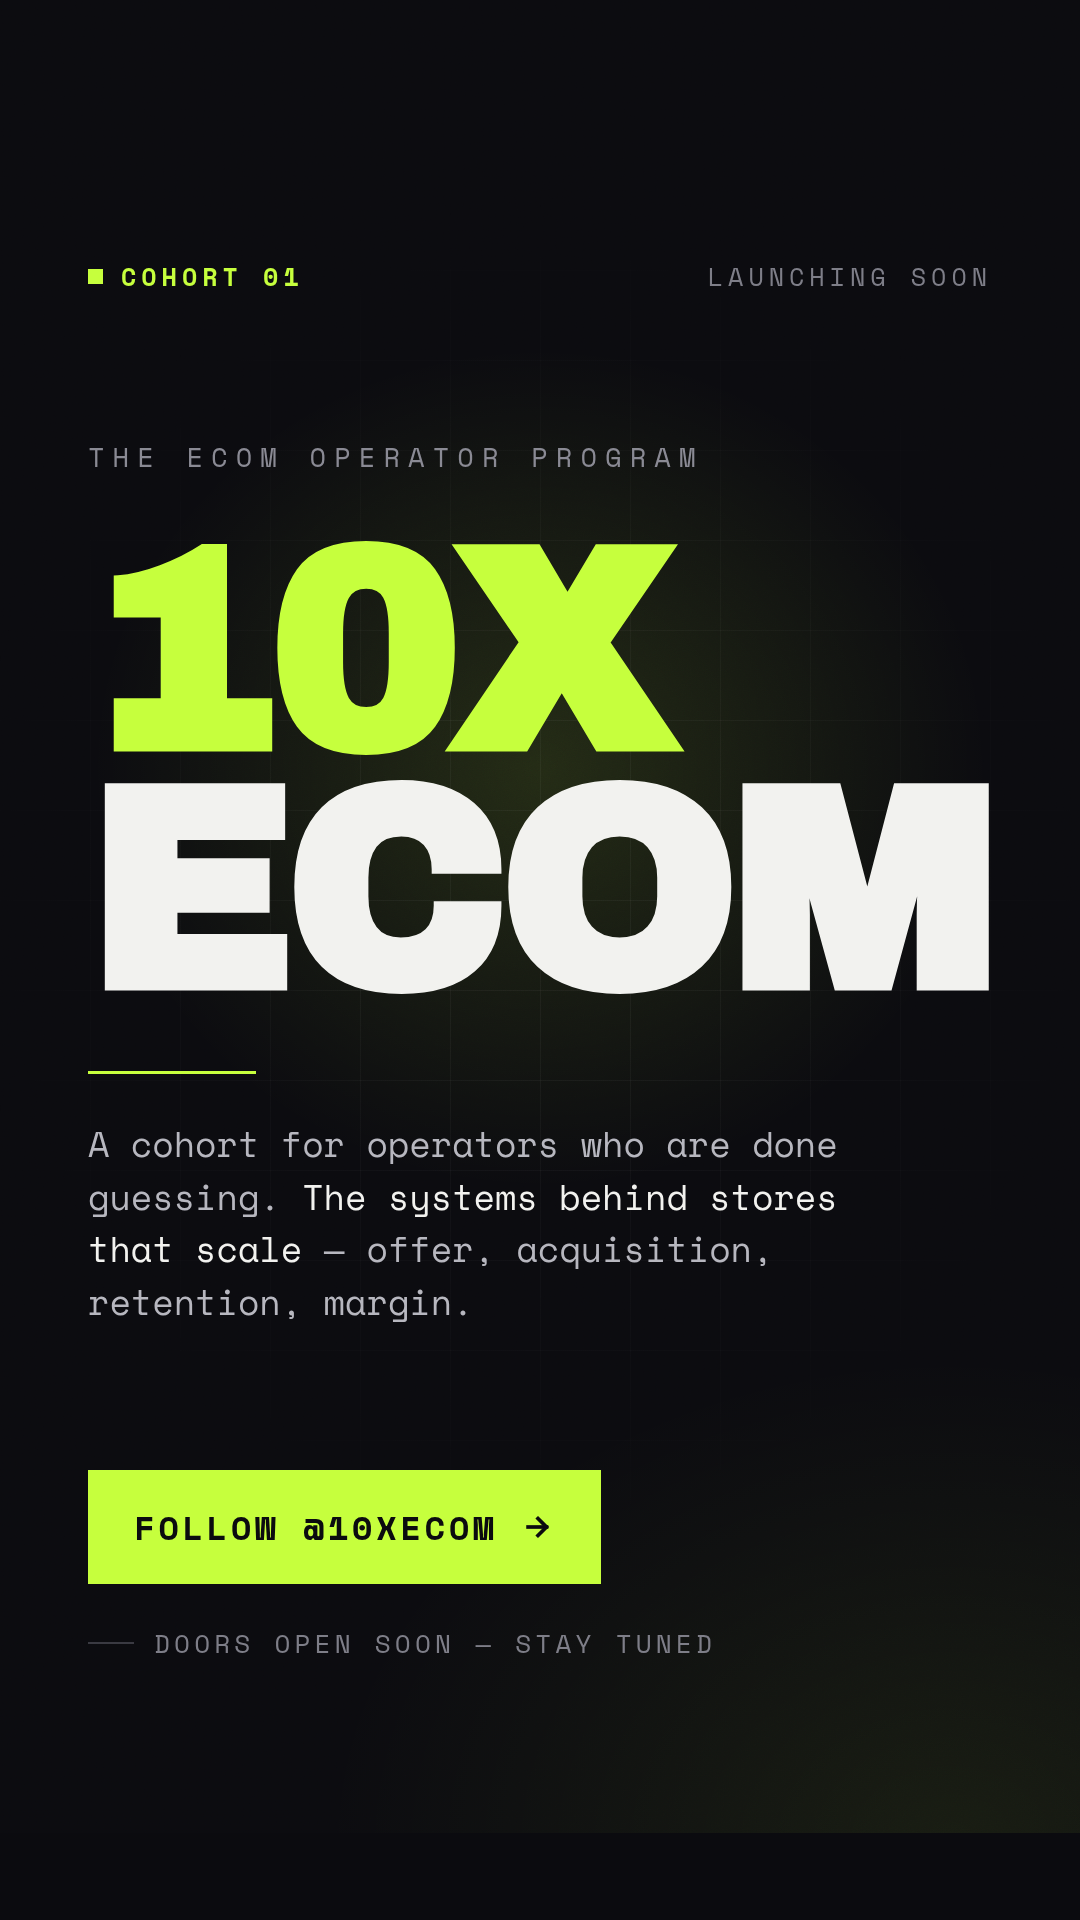
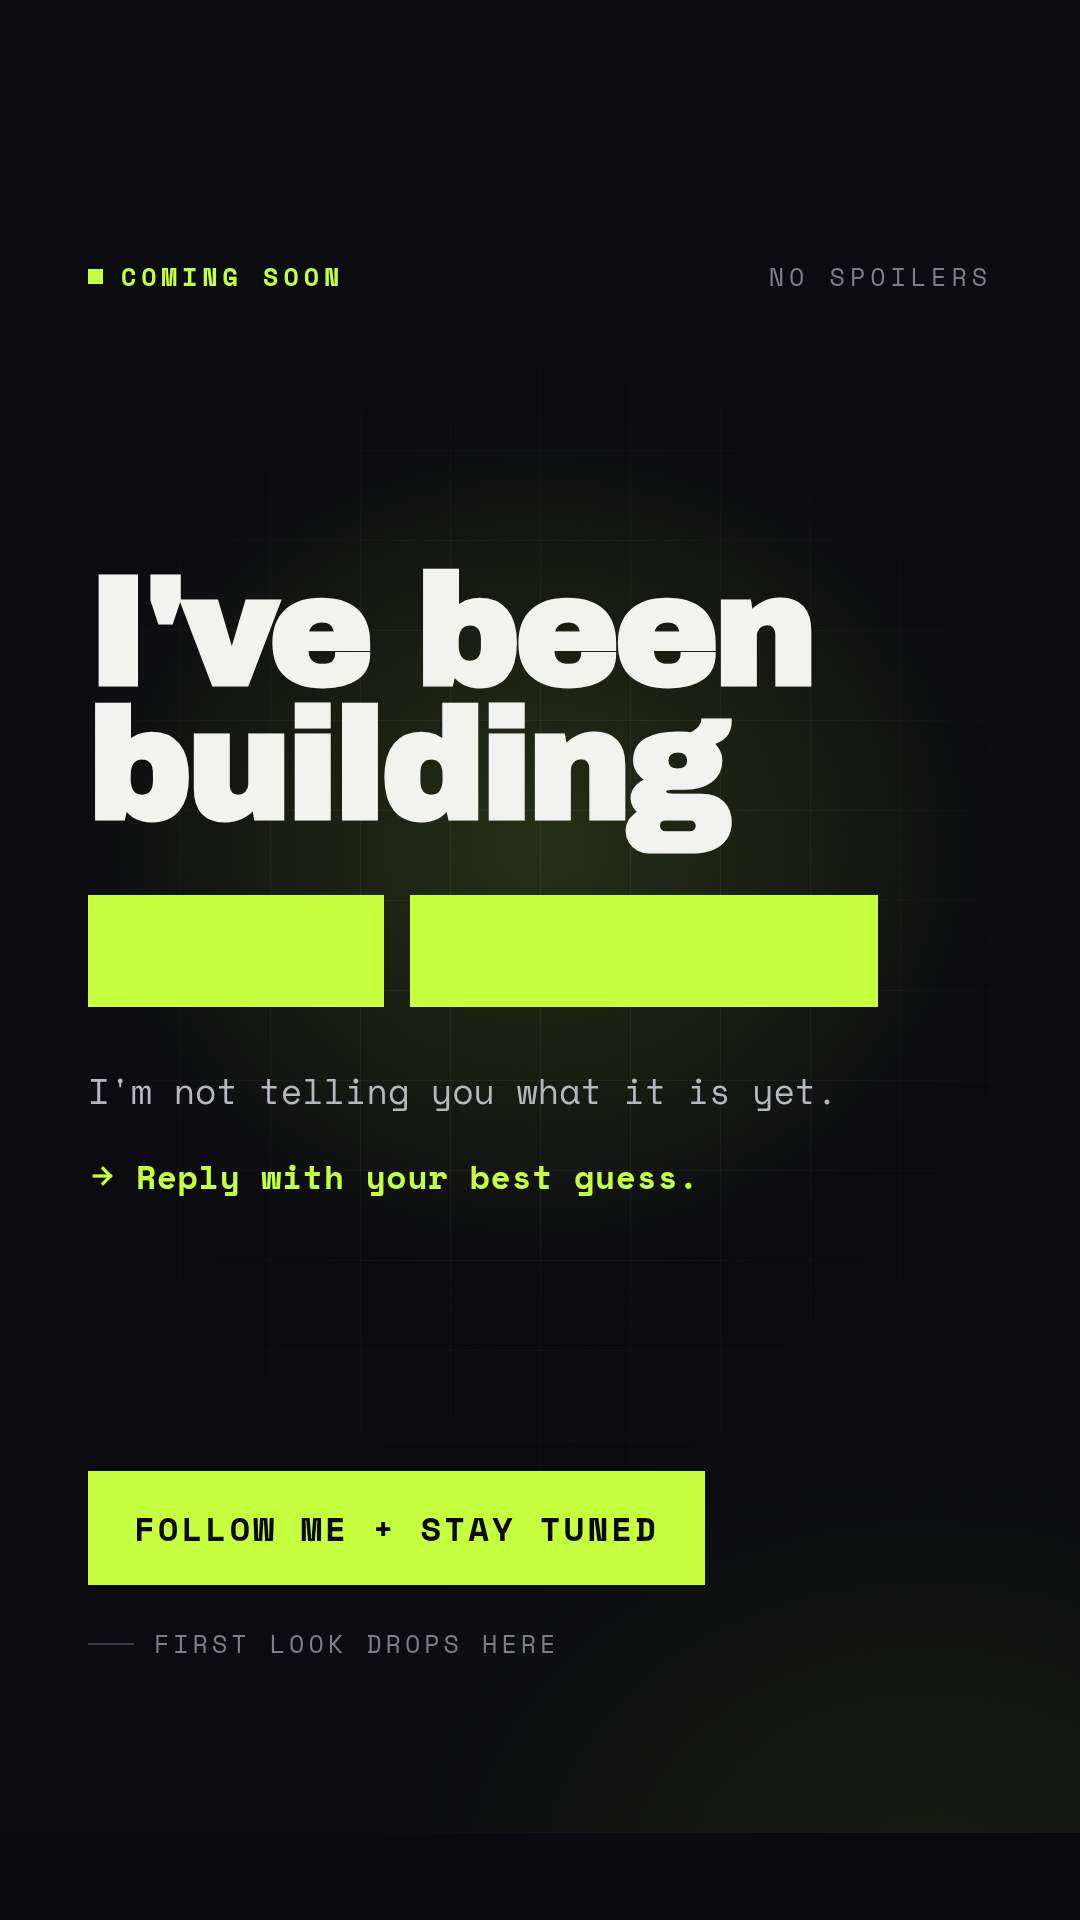
design: rework story as a single no-reveal teaser
The brief changed: one image, posted on a personal profile, teasing a launch
without naming the product, built to pull replies.

- Replace the three branded directions with one teaser artboard. The product
  name, the programme description and the pillars are all gone; the hook is
  now a redaction bar reading "I've been building [redacted]".
- CTA is "Follow me + stay tuned" rather than a brand handle, with a
  "Reply with your best guess" prompt to drive story replies.
- Leave a clear band above the CTA for a poll or question sticker.
- Give the background layers an explicit z-index (grid lines were painting
  over the headline) and clear the "g" descender above the redaction bar.
- Let render.mjs discover artboards instead of hardcoding their names.

Claude-Session: https://claude.ai/code/session_01JScjDvyAFXuwqeNj6asjp6

diff --git a/design/10xecom-ig-story/src/Main.dc.html b/design/10xecom-ig-story/src/Main.dc.html
@@ -17,17 +17,17 @@
       font-family: 'Space Mono', ui-monospace, 'Courier New', monospace;
       box-sizing: border-box;
     }
-    .glow, .grid, .noise { position: absolute; inset: 0; pointer-events: none; }
+    .glow, .grid, .noise { position: absolute; inset: 0; pointer-events: none; z-index: 0; }
     .glow {
       background:
-        radial-gradient(660px 620px at 50% 40%, rgba(198,255,61,0.13), rgba(198,255,61,0) 68%),
-        radial-gradient(900px 700px at 88% 96%, rgba(198,255,61,0.07), rgba(198,255,61,0) 70%);
+        radial-gradient(700px 640px at 50% 44%, rgba(198,255,61,0.14), rgba(198,255,61,0) 68%),
+        radial-gradient(900px 700px at 86% 98%, rgba(198,255,61,0.06), rgba(198,255,61,0) 70%);
     }
     .grid {
       background-image:
-        repeating-linear-gradient(to right, rgba(242,242,239,0.045) 0 1px, transparent 1px 90px),
-        repeating-linear-gradient(to bottom, rgba(242,242,239,0.045) 0 1px, transparent 1px 90px);
-      mask-image: radial-gradient(760px 900px at 50% 46%, #000 20%, transparent 78%);
+        repeating-linear-gradient(to right, rgba(242,242,239,0.05) 0 1px, transparent 1px 90px),
+        repeating-linear-gradient(to bottom, rgba(242,242,239,0.05) 0 1px, transparent 1px 90px);
+      mask-image: radial-gradient(780px 900px at 50% 48%, #000 20%, transparent 78%);
     }
     .noise {
       opacity: 0.16; mix-blend-mode: overlay;
@@ -35,29 +35,34 @@
     }
     .inner {
       position: relative; height: 100%; box-sizing: border-box;
-      padding: 258px 88px 258px;
+      padding: 258px 88px 258px; z-index: 1;
       display: flex; flex-direction: column; justify-content: space-between;
     }
+
     .topbar { display: flex; align-items: center; justify-content: space-between; }
     .tag { display: flex; align-items: center; gap: 18px;
       font-size: 25px; font-weight: 700; letter-spacing: 0.20em; text-transform: uppercase; color: #C6FF3D; }
     .dot { width: 15px; height: 15px; background: #C6FF3D; }
     .topright { font-size: 25px; letter-spacing: 0.20em; text-transform: uppercase; color: #7E7E88; }
 
-    .eyebrow { font-size: 27px; letter-spacing: 0.30em; text-transform: uppercase; color: #8A8A94; margin: 0 0 54px; }
-    .mark { font-family: 'Archivo Black', 'Arial Black', Impact, sans-serif;
-      font-size: 288px; line-height: 0.83; letter-spacing: -0.035em; margin: 0; }
-    .mark .l1 { display: block; color: #C6FF3D; }
-    .mark .l2 { display: block; color: #F2F2EF; }
-    .rule { height: 3px; background: #C6FF3D; width: 168px; margin: 62px 0 44px; }
-    .sub { font-size: 35px; line-height: 1.5; color: #B7B7BF; margin: 0; max-width: 830px; text-wrap: pretty; }
-    .sub em { font-style: normal; color: #F2F2EF; }
+    .head { font-family: 'Archivo Black', 'Arial Black', Impact, sans-serif;
+      font-size: 156px; line-height: 0.86; letter-spacing: -0.03em; margin: 0; color: #F2F2EF; }
+    .head span { display: block; }
+    .redacted { display: flex; gap: 26px; margin-top: 62px; }
+    .redacted i { display: block; height: 112px; background: #C6FF3D; }
+    .r1 { width: 296px; }
+    .r2 { width: 468px; }
+
+    .say { margin: 58px 0 0; font-size: 35px; line-height: 1.5; color: #B7B7BF; max-width: 800px; text-wrap: pretty; }
+    .guess { display: flex; align-items: center; gap: 18px; margin: 34px 0 0;
+      font-size: 33px; font-weight: 700; letter-spacing: 0.02em; color: #C6FF3D; }
 
     .cta { display: flex; flex-direction: column; gap: 40px; align-items: flex-start; }
     .pill { display: flex; align-items: center; gap: 24px;
       background: #C6FF3D; color: #0B0B0F; padding: 32px 46px;
-      font-size: 34px; font-weight: 700; letter-spacing: 0.10em; text-transform: uppercase; }
-    .foot { display: flex; align-items: center; gap: 20px; font-size: 26px; letter-spacing: 0.16em; text-transform: uppercase; color: #7E7E88; }
+      font-size: 34px; font-weight: 700; letter-spacing: 0.09em; text-transform: uppercase; }
+    .foot { display: flex; align-items: center; gap: 20px;
+      font-size: 25px; letter-spacing: 0.16em; text-transform: uppercase; color: #7E7E88; }
     .bar { width: 46px; height: 2px; background: #3A3A42; }
   </style>
 </helmet>
@@ -68,26 +73,31 @@
   <div class="inner">
 
     <div class="topbar">
-      <div class="tag"><span class="dot"></span><span>Cohort 01</span></div>
-      <div class="topright">Launching soon</div>
+      <div class="tag"><span class="dot"></span><span>Coming soon</span></div>
+      <div class="topright">No spoilers</div>
     </div>
 
     <div>
-      <p class="eyebrow">The ecom operator program</p>
-      <h1 class="mark"><span class="l1">10X</span><span class="l2">ECOM</span></h1>
-      <div class="rule"></div>
-      <p class="sub">A cohort for operators who are done guessing. <em>The systems behind stores that scale</em> — offer, acquisition, retention, margin.</p>
+      <h1 class="head">
+        <span>I've been</span>
+        <span>building</span>
+      </h1>
+      <div class="redacted"><i class="r1"></i><i class="r2"></i></div>
+      <p class="say">I'm not telling you what it is yet.</p>
+      <p class="guess">
+        <svg width="30" height="30" viewBox="0 0 24 24" fill="none" stroke="#C6FF3D" stroke-width="2.6" stroke-linecap="square" stroke-linejoin="miter" aria-hidden="true">
+          <path d="M5 12h13"></path>
+          <path d="M12 6l6 6-6 6"></path>
+        </svg>
+        <span>Reply with your best guess.</span>
+      </p>
     </div>
 
     <div class="cta">
       <div class="pill">
-        <span>Follow @10xecom</span>
-        <svg width="34" height="34" viewBox="0 0 24 24" fill="none" stroke="#0B0B0F" stroke-width="2.6" stroke-linecap="square" stroke-linejoin="miter" aria-hidden="true">
-          <path d="M5 12h13"></path>
-          <path d="M12 6l6 6-6 6"></path>
-        </svg>
+        <span>Follow me + stay tuned</span>
       </div>
-      <div class="foot"><span class="bar"></span><span>Doors open soon — stay tuned</span></div>
+      <div class="foot"><span class="bar"></span><span>First look drops here</span></div>
     </div>
 
   </div>

diff --git a/design/10xecom-ig-story/README.md b/design/10xecom-ig-story/README.md
@@ -1,23 +1,23 @@
-# 10xecom — Instagram Story launch graphics
+# Instagram Story teaser
 
-Three 1080x1920 (9:16) story directions for the 10xecom cohort launch.
-Dark `#0B0B0F` ground, acid `#C6FF3D` accent, Archivo Black display + Space Mono.
+One 1080x1920 (9:16) story for a personal profile: announces that a launch is
+coming without revealing what it is. Dark `#0B0B0F` ground, acid `#C6FF3D`
+accent, Archivo Black display + Space Mono.
 
-| Direction | File | Idea |
-| --- | --- | --- |
-| Main | `src/Main.dc.html` | Stacked wordmark drop, single CTA pill |
-| B | `src/DirectionB.dc.html` | Acid ticker bands, outlined/filled type, three pillars |
-| C | `src/DirectionC.dc.html` | Editorial, hairline rules, restrained |
+The hook is a redaction: "I've been building ███ █████". The product is never
+named. CTA is `Follow me + stay tuned` (personal profile, not a brand page),
+with `Reply with your best guess` to pull story replies into DMs.
 
 ## Build
 
 ```
-node build.mjs    # inlines fonts/*.woff2 as @font-face data URIs -> ./*.dc.html
-node render.mjs   # screenshots each artboard -> png/10xecom-story-*.png (1080x1920)
+node build.mjs    # inlines fonts/*.woff2 as @font-face data URIs -> ./Main.dc.html
+node render.mjs   # screenshots each artboard -> png/10xecom-story-main.png (1080x1920)
 ```
 
 Fonts are inlined rather than linked because PNG export does not embed webfonts
 fetched from a CDN.
 
 Layout keeps the top and bottom 250px clear of content for Instagram's profile
-row and reply bar.
+row and reply bar. The gap between the guess line and the CTA is deliberate
+room for a poll or question sticker.
